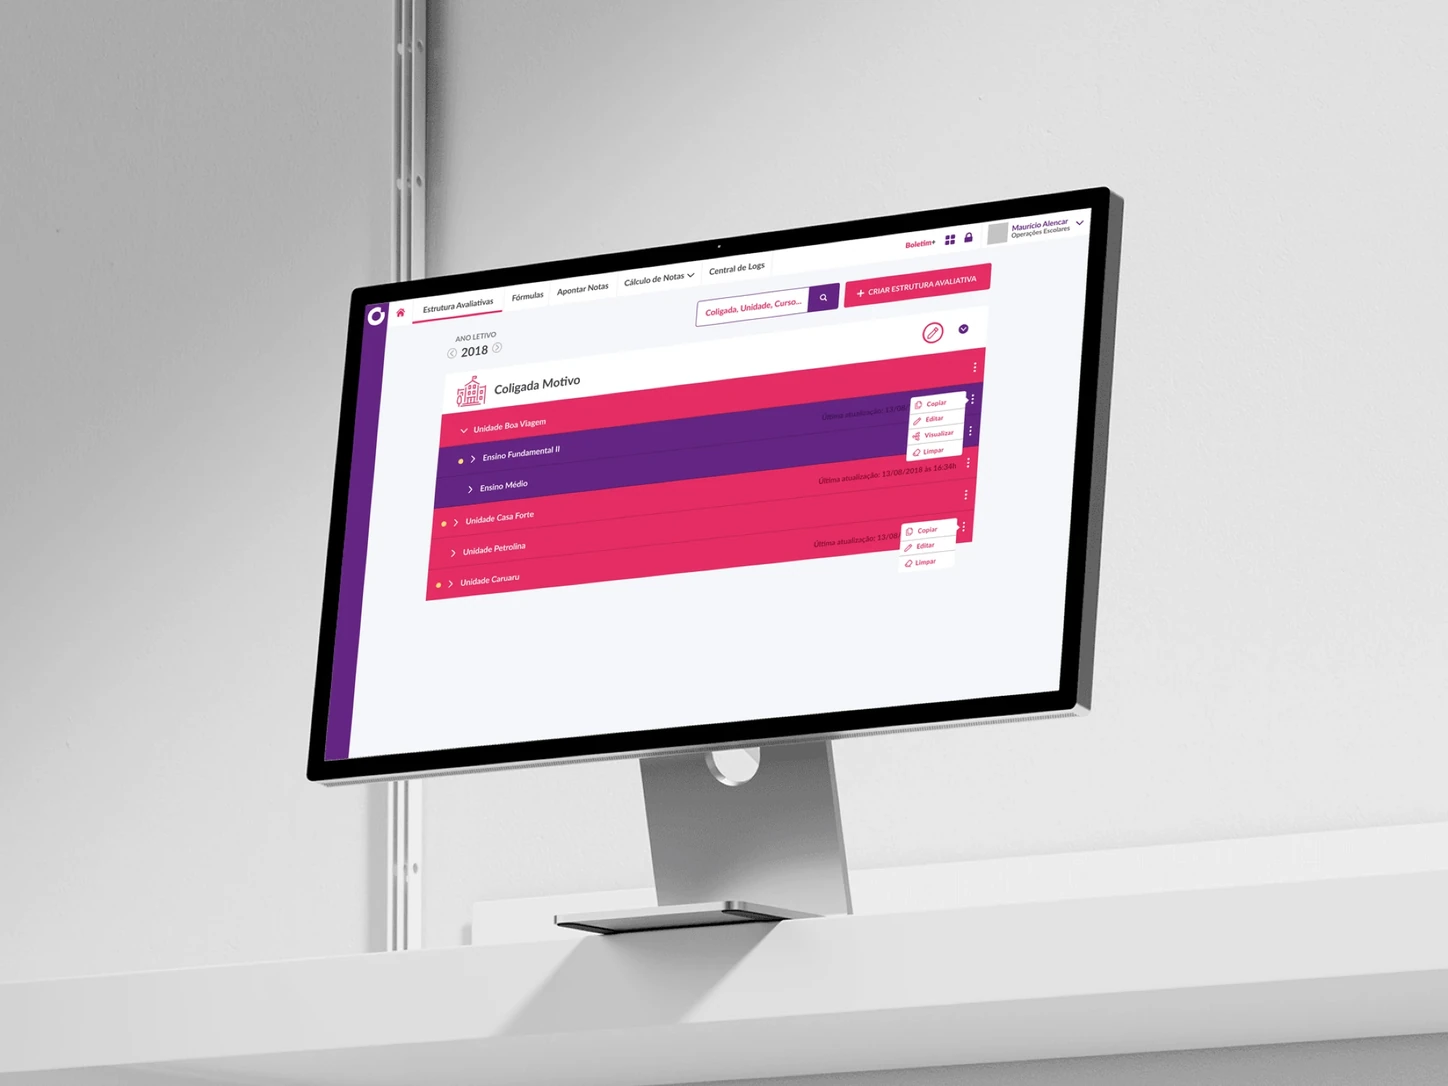
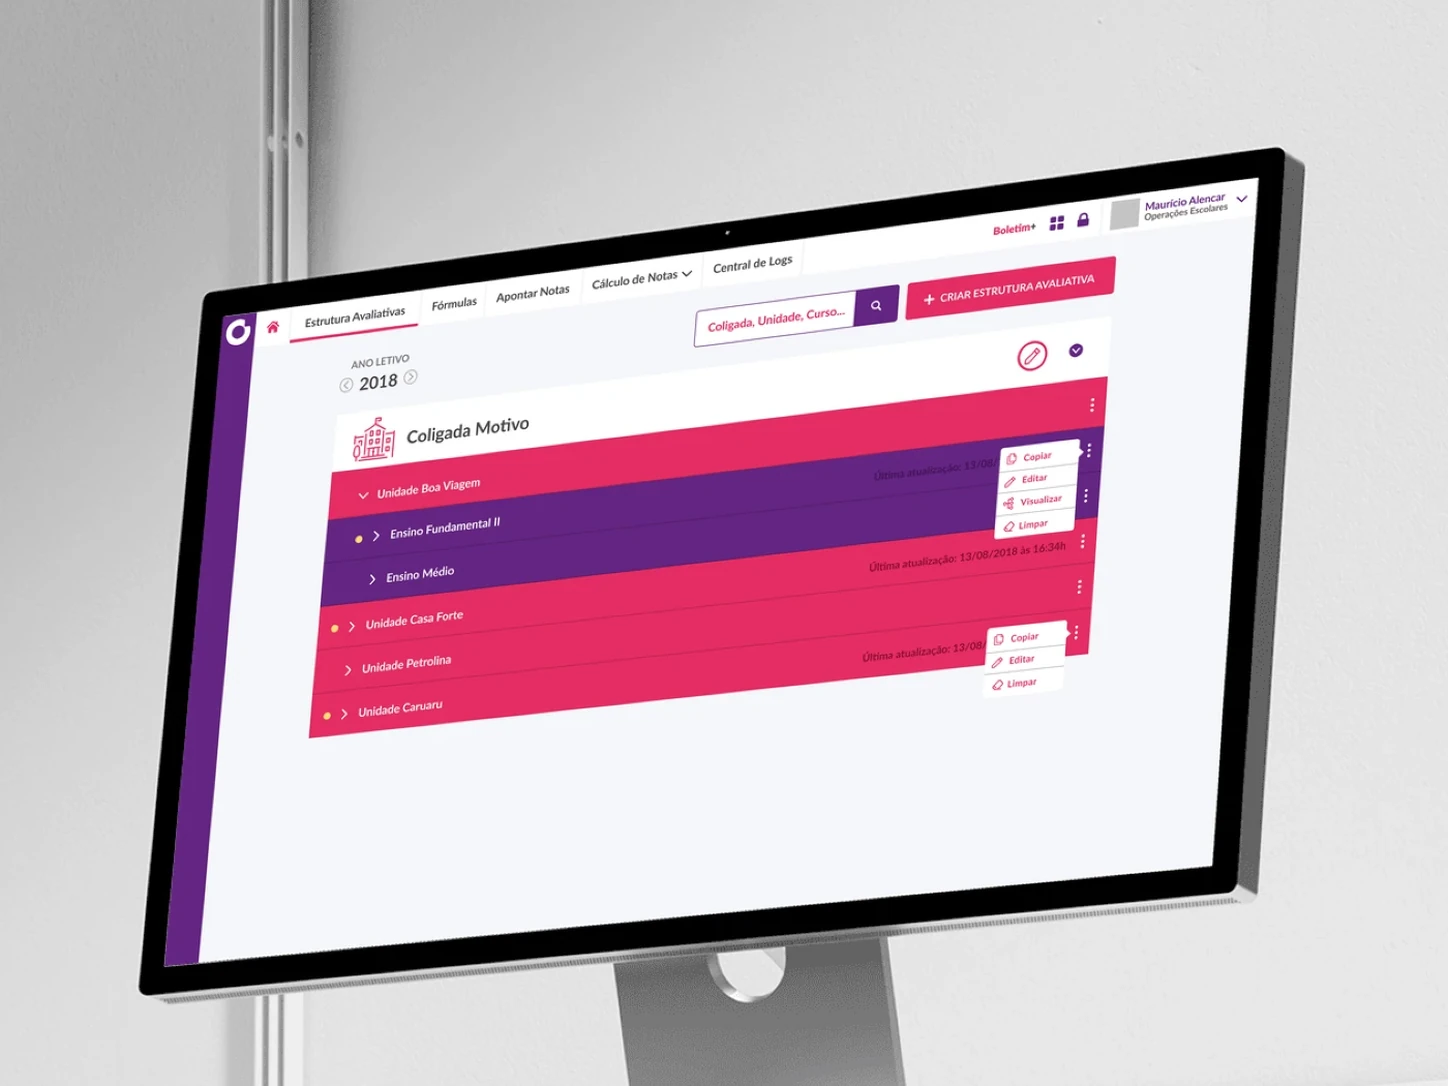
Home: zoom the Somos thumbnail in on the monitor
Re-crop the mockup to a 1400x1050 window around the monitor (about
1.4x), so the Boletim+ interface reads larger while the whole screen
stays in frame. Bump the image URL to bust caches.

Claude-Session: https://claude.ai/code/session_01NFYWjmQEaCsme1e2FzywfD

diff --git a/index.html b/index.html
@@ -149,7 +149,7 @@
         -->
         <a class="pf-card" href="case-somos.html" style="--order:4">
           <div class="pf-card-media">
-            <img src="images/somos/thumb-home-mockup.webp" alt="Somos Educação — Boletim+ num monitor" width="1448" height="1086" loading="lazy">
+            <img src="images/somos/thumb-home-mockup.webp?v=2" alt="Somos Educação — Boletim+ num monitor" width="1448" height="1086" loading="lazy">
           </div>
           <h3 class="pf-card-title">Somos Educação</h3>
           <p class="pf-card-desc" data-en="Redesign of the Boletim+ content platform for teachers and school administrators.">Redesign da plataforma de conteúdo Boletim+ para professores e gestores escolares.</p>
